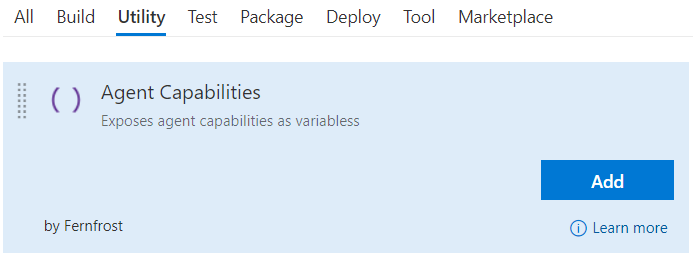
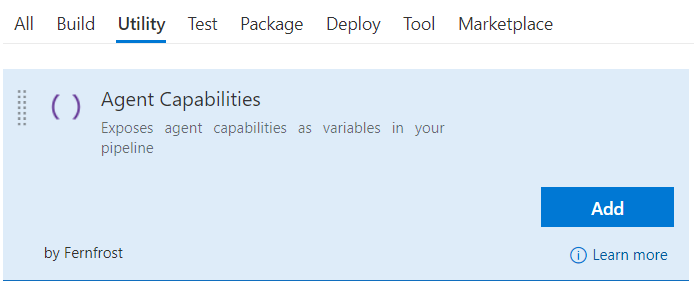
prints variables

diff --git a/agent-capabilities-task/index.ts b/agent-capabilities-task/index.ts
@@ -32,7 +32,10 @@ async function run() {
         let keys = Object.keys(systemCapabilities);
 
         for (let key of keys) {
-            task.setVariable('agentCapabilities.' + key, systemCapabilities[key]);
+            let formattedKey = `agentCapabilities.${key}`;
+            let value = systemCapabilities[key];
+            task.setVariable(formattedKey, value);
+            console.log(`${formattedKey}=${value}`);
         }
 
         task.setResult(task.TaskResult.Succeeded, 'Succeeded');

diff --git a/README.md b/README.md
@@ -1,4 +1,5 @@
 # Agent Capabilities
+Exposes agent capabilities as variables in your pipeline.
 
 ## Usage
 Add a new **Agent Capabilities** task from the **Utility** category...
@@ -11,6 +12,7 @@ Add a new **Agent Capabilities** task from the **Utility** category...
 
 Parameters include:
 * **Personal access token**: For security, we recommend creating a secret variable for your personal access token, eg. <code>$(AgentCapabilitiesAccessToken)</code> and referense it here. Required scopes are <code>"Agent Pools (read)"</code> and <code>"Build (read)"</code>.
+[Learn how to create a personal access token](https://docs.microsoft.com/en-us/vsts/organizations/accounts/use-personal-access-tokens-to-authenticate?view=vsts).
 
 ![Personal access token](images/scopes.png)
 
